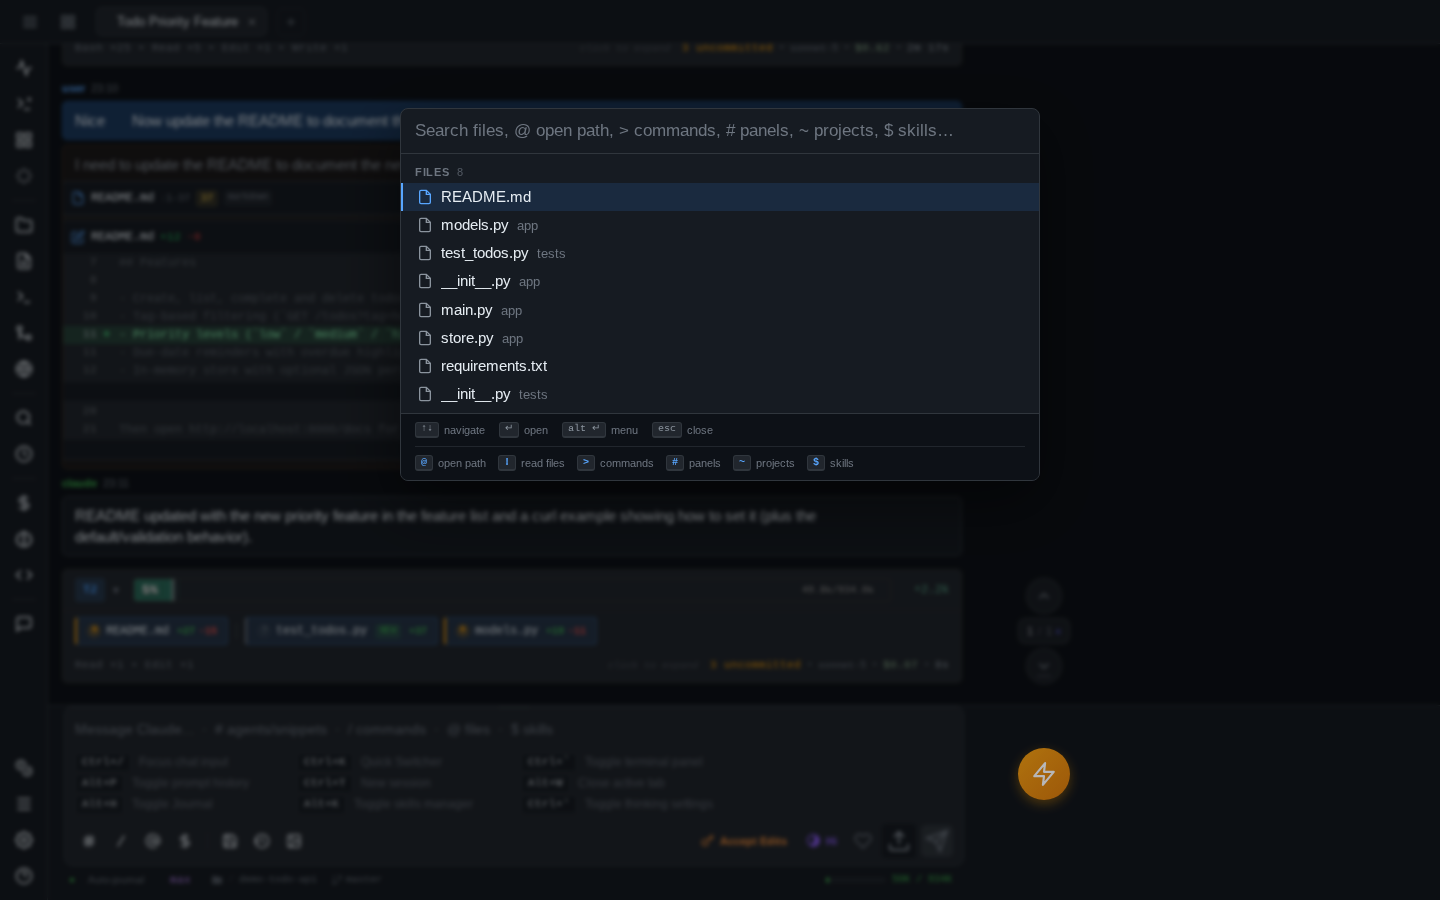
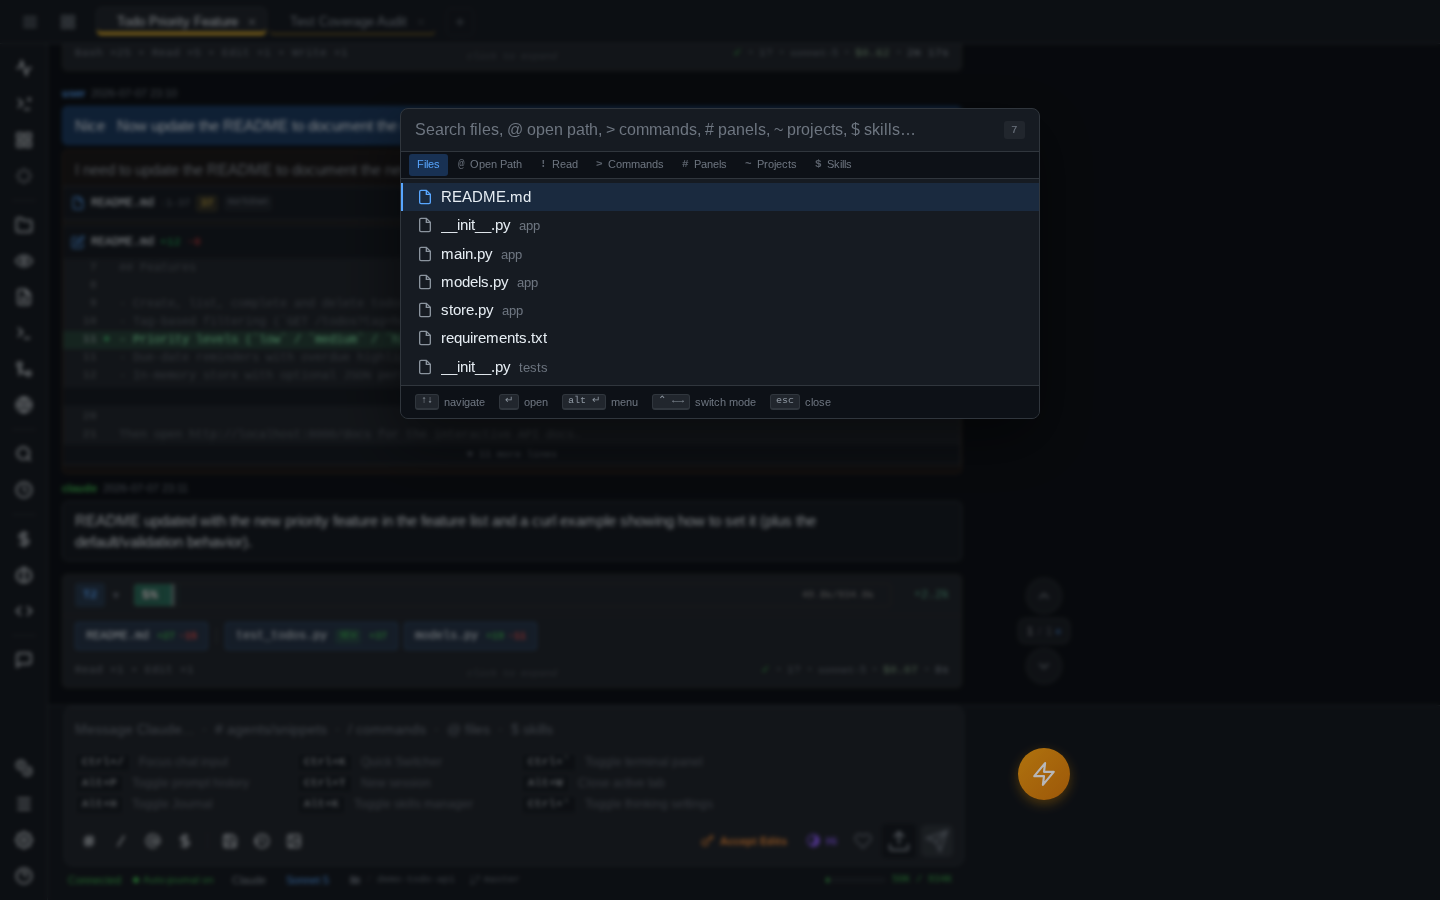
add: Quick Switcher + chat autocomplete README sections with fresh captures
Two new Highlighted features sections. Media captured on the isolated
demo rig (demo-todo-api, sanitized fake HOME with demo skills/agents):

- quick-switcher.gif — fuzzy file open to rendered preview, then ~
  project drill-in switching to another session tab
- quick-switcher.png — refreshed still, now shows the clickable mode
  tab strip (replaces the stale footer-legend capture, also used by
  docs-site/guides/sessions.md whose alt text already matches)
- input-autocomplete.gif — one prompt composed from three popups:
  # agent, @ file, $ skill

diff --git a/README.md b/README.md
@@ -51,6 +51,20 @@ Context usage, token delta, files changed with diff stats, tool counts, duration
 
 ![Collapsed per-turn summary bar with file pills, tool counts, cost and duration](docs-site/assets/turn-summary-bar.png)
 
+### Quick Switcher
+
+One `Ctrl/Cmd+K` popup to jump anywhere — VS-Code-style **fuzzy file search** (recent files first), with prefix modes for everything else: `>` commands, `#` panels, `~` projects, `$` skills, `!` files Claude read this session. `~` drills into any project's **sessions** and opens them as tabs; `Ctrl+click` opens a file in a background tab.
+
+<img src="docs-site/assets/quick-switcher.png" alt="Quick Switcher over a session: search box, mode tabs (Files, Open Path, Read, Commands, Panels, Projects, Skills), and a fuzzy-matched file list" width="700">
+
+![Quick Switcher opening a rendered file preview, then drilling into a project's sessions and switching tabs](docs-site/assets/quick-switcher.gif)
+
+### Chat input autocomplete
+
+The message box completes as you type: **`@` files** (recents first), **`#` agents & saved snippets**, **`$` skills**, **`/` commands** — plus **`!` for shell mode**, whose command output rides along as context for your next prompt. `Tab` on an empty input cycles through all of them.
+
+![Composing one prompt from three popups: a # agent, an @ file and a $ skill completion](docs-site/assets/input-autocomplete.gif)
+
 ### Comments stash
 
 Click the bubble next to any paragraph, add a note, and it **attaches — quote included — to your next prompt**.
